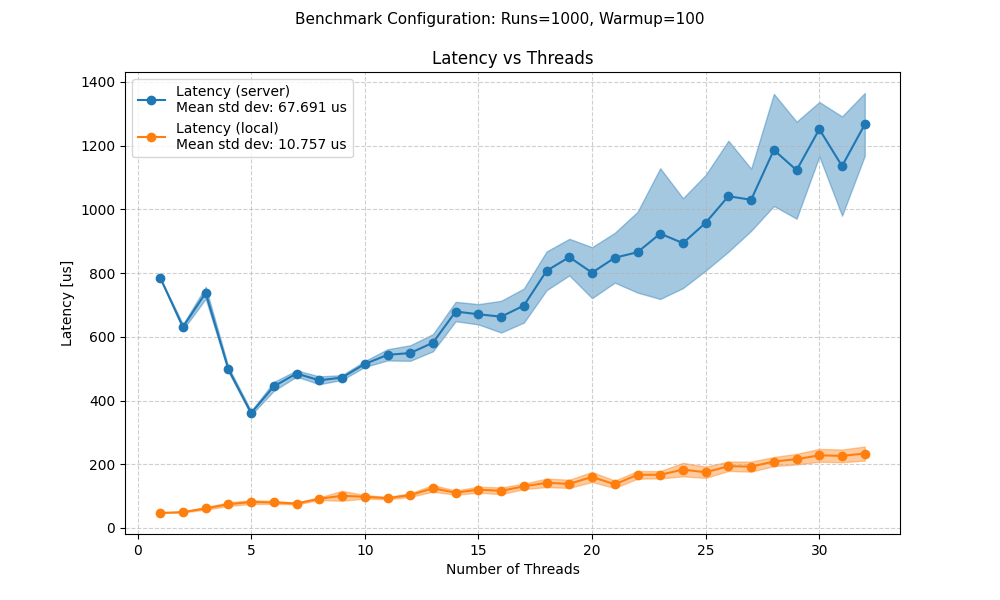
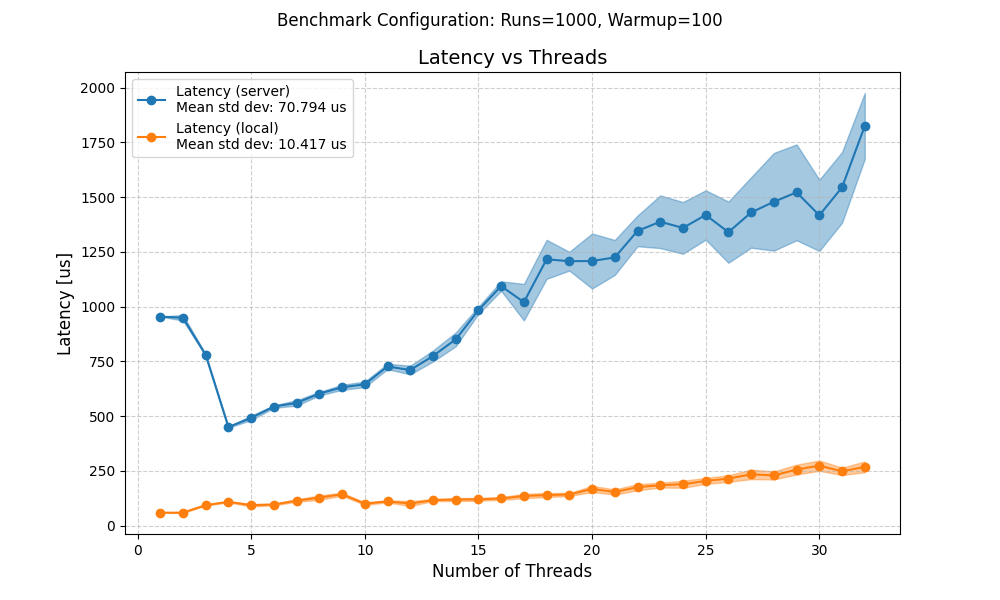
Added initializeBookStoreData

diff --git a/a3/src/com/acertainbookstore/client/workloads/CertainWorkload.java b/a3/src/com/acertainbookstore/client/workloads/CertainWorkload.java
@@ -5,12 +5,16 @@ package com.acertainbookstore.client.workloads;
 
 import java.io.FileWriter;
 import java.util.ArrayList;
+import java.util.HashSet;
 import java.util.List;
 import java.util.concurrent.ExecutorService;
 import java.util.concurrent.Executors;
 import java.util.concurrent.Future;
 
+import com.acertainbookstore.business.BookEditorPick;
+import com.acertainbookstore.business.BookRating;
 import com.acertainbookstore.business.CertainBookStore;
+import com.acertainbookstore.business.StockBook;
 import com.acertainbookstore.client.BookStoreHTTPProxy;
 import com.acertainbookstore.client.StockManagerHTTPProxy;
 import com.acertainbookstore.interfaces.BookStore;
@@ -31,7 +35,8 @@ public class CertainWorkload {
     public static final int maxThreads = 32;
     public static final int numWarmupRuns = 100;
     public static final int numRuns = 1000;
-    public static boolean localTest = true;
+    public static final int initialBooks = 10;
+    public static boolean localTest = false;
 
 	/**
 	 * @param args
@@ -186,10 +191,18 @@ public class CertainWorkload {
 	 */
 	public static void initializeBookStoreData(BookStore bookStore,
 			StockManager stockManager) throws BookStoreException {
-        bookStore = bookStore;
-        stockManager = stockManager;
+        var rand = new java.util.Random(42);
+        var bookSetGenerator = new BookSetGenerator(42);
+        var booksToAdd = bookSetGenerator.nextSetOfStockBooks(initialBooks);
+        stockManager.addBooks(booksToAdd);
 
+        var booksList = new ArrayList<>(booksToAdd);
+        java.util.Collections.shuffle(booksList, rand);
 
-
-	}
+        var picks = new HashSet<BookEditorPick>();
+        for (StockBook book : booksList) {
+            picks.add(new BookEditorPick(book.getISBN(), rand.nextBoolean()));
+        }
+        stockManager.updateEditorPicks(picks);
+    }
 }

diff --git a/a3/main.py b/a3/main.py
@@ -27,10 +27,10 @@ for label, df in datasets.items():
         color=line.get_color(), alpha=0.4
     )
 
-plt.title(f'Latency vs Threads')
-plt.suptitle(f'Benchmark Configuration: Runs={runs}, Warmup={warmup}', fontsize=11)
-plt.xlabel('Number of Threads')
-plt.ylabel('Latency [us]')
+plt.title(f'Latency vs Threads', fontsize=14)
+plt.suptitle(f'Benchmark Configuration: Runs={runs}, Warmup={warmup}', fontsize=12)
+plt.xlabel('Number of Threads', fontsize=12)
+plt.ylabel('Latency [us]', fontsize=12)
 plt.legend()
 plt.grid(True, linestyle='--', alpha=0.6)
 plt.savefig('latency_plot.png')
@@ -50,10 +50,10 @@ for label, df in datasets.items():
         color=line.get_color(), alpha=0.4
     )
 
-plt.title(f'Throughput vs Threads')
-plt.suptitle(f'Benchmark Configuration: Runs={runs}, Warmup={warmup}', fontsize=11)
-plt.xlabel('Number of Threads')
-plt.ylabel('Throughput [op/s]')
+plt.title(f'Throughput vs Threads', fontsize=14)
+plt.suptitle(f'Benchmark Configuration: Runs={runs}, Warmup={warmup}', fontsize=12)
+plt.xlabel('Number of Threads', fontsize=12)
+plt.ylabel('Throughput [op/s]', fontsize=12)
 plt.legend()
 plt.grid(True, linestyle='--', alpha=0.6)
 plt.savefig('throughput_plot.png')

diff --git a/a3/src/com/acertainbookstore/client/workloads/BookSetGenerator.java b/a3/src/com/acertainbookstore/client/workloads/BookSetGenerator.java
@@ -24,6 +24,11 @@ public class BookSetGenerator {
         this.nextIsbn = 10000;
     }
 
+    public BookSetGenerator(int seed) {
+        this.random = new Random(seed);
+        this.nextIsbn = 10000;
+    }
+
     /**
      * Returns num randomly selected isbns from the input set
      *
